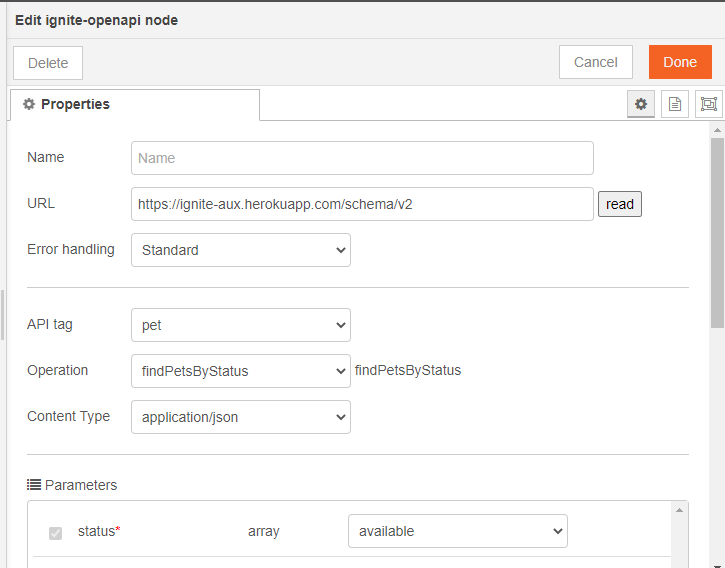
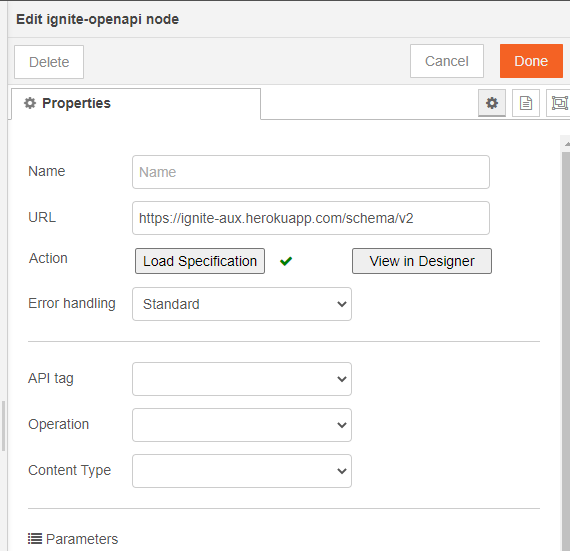
updated openAPI new changes

diff --git a/docs/openAPI/openAPI-client.md b/docs/openAPI/openAPI-client.md
@@ -10,7 +10,7 @@ This node, is used to load and hit openAPI end point
 
 ## Usage
 
-Enter the URL to your openAPI configuration (json or yaml file) and push the <b>Read</b> button. That's it. You can now select the operation you want to run.
+Enter the URL to your openAPI configuration (json or yaml file) and push the <b>Load Specification</b> button. That's it. You can now select the operation you want to run.
 
 ### Example
 

diff --git a/docs/openAPI/openAPI-router.md b/docs/openAPI/openAPI-router.md
@@ -24,3 +24,7 @@ Enter the URL to your OpenAPI configuration (json or yaml file) and push the <b>
 ~~~
 
 ![](../assets/openAPI/ignite-OpenAPI_Router_Usage.gif)
+
+## View in Designer
+
+By clicking on button 'View in Desinger' it will load the OpenAPI in Ignite Desinger in a new tab.
